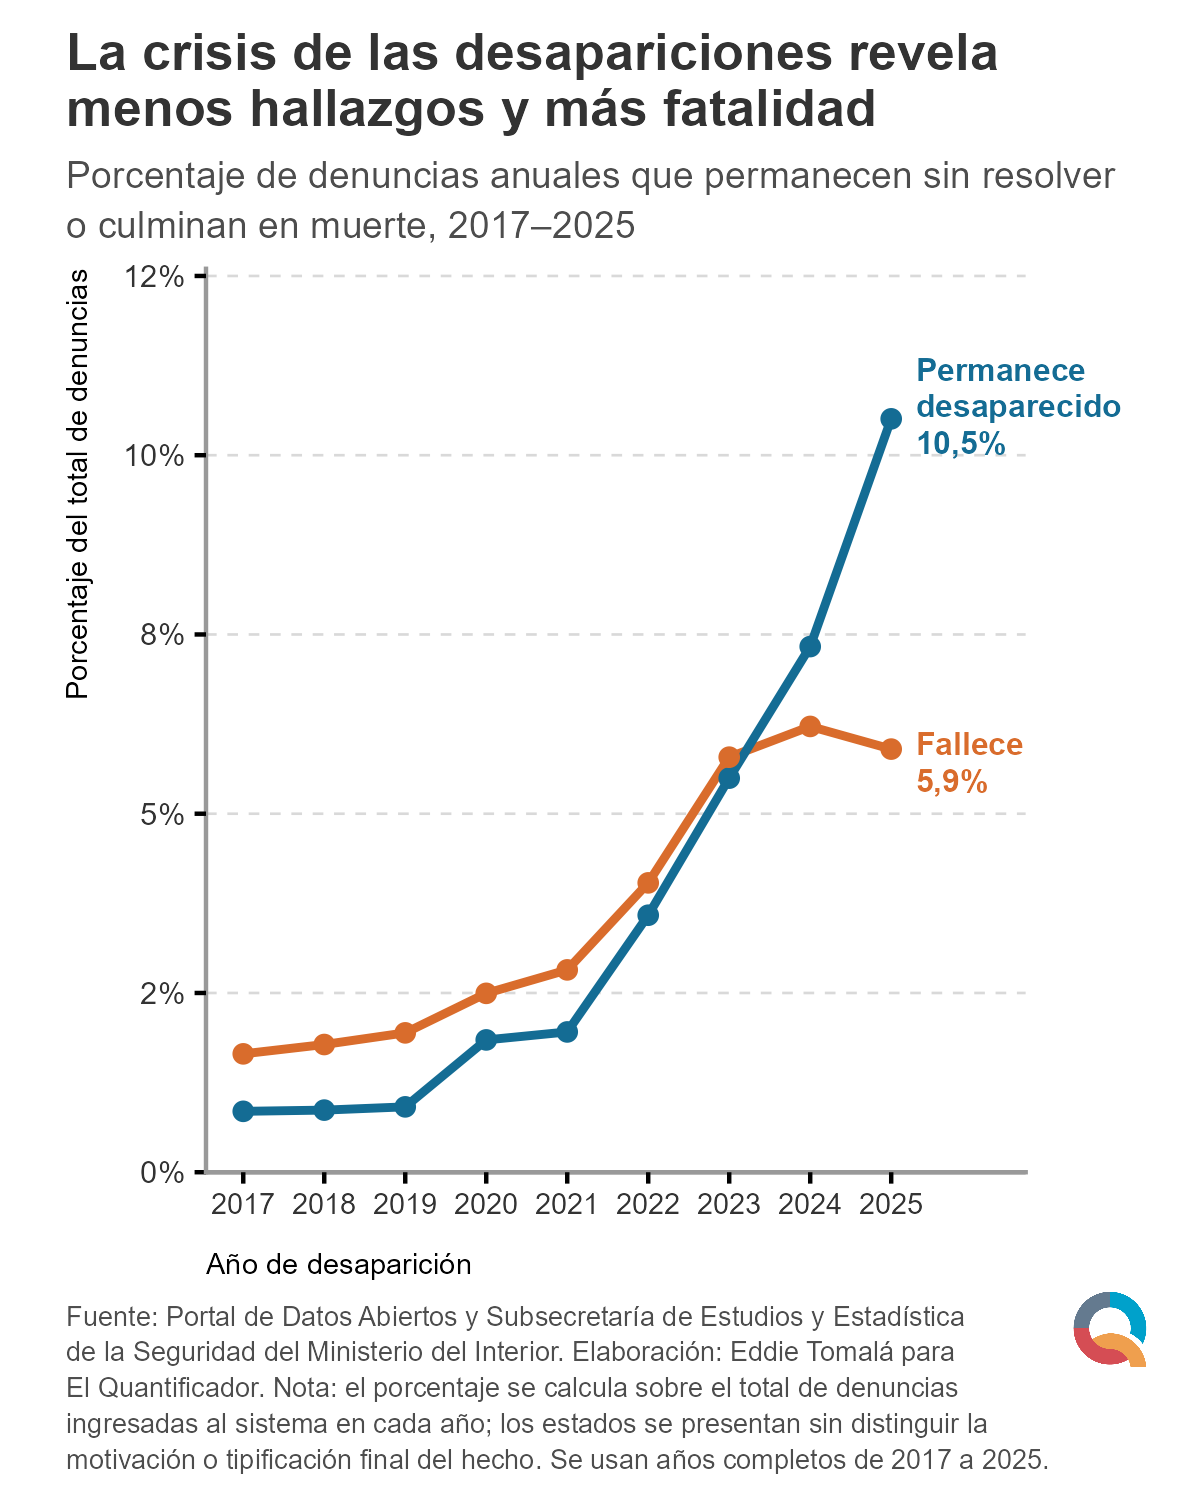
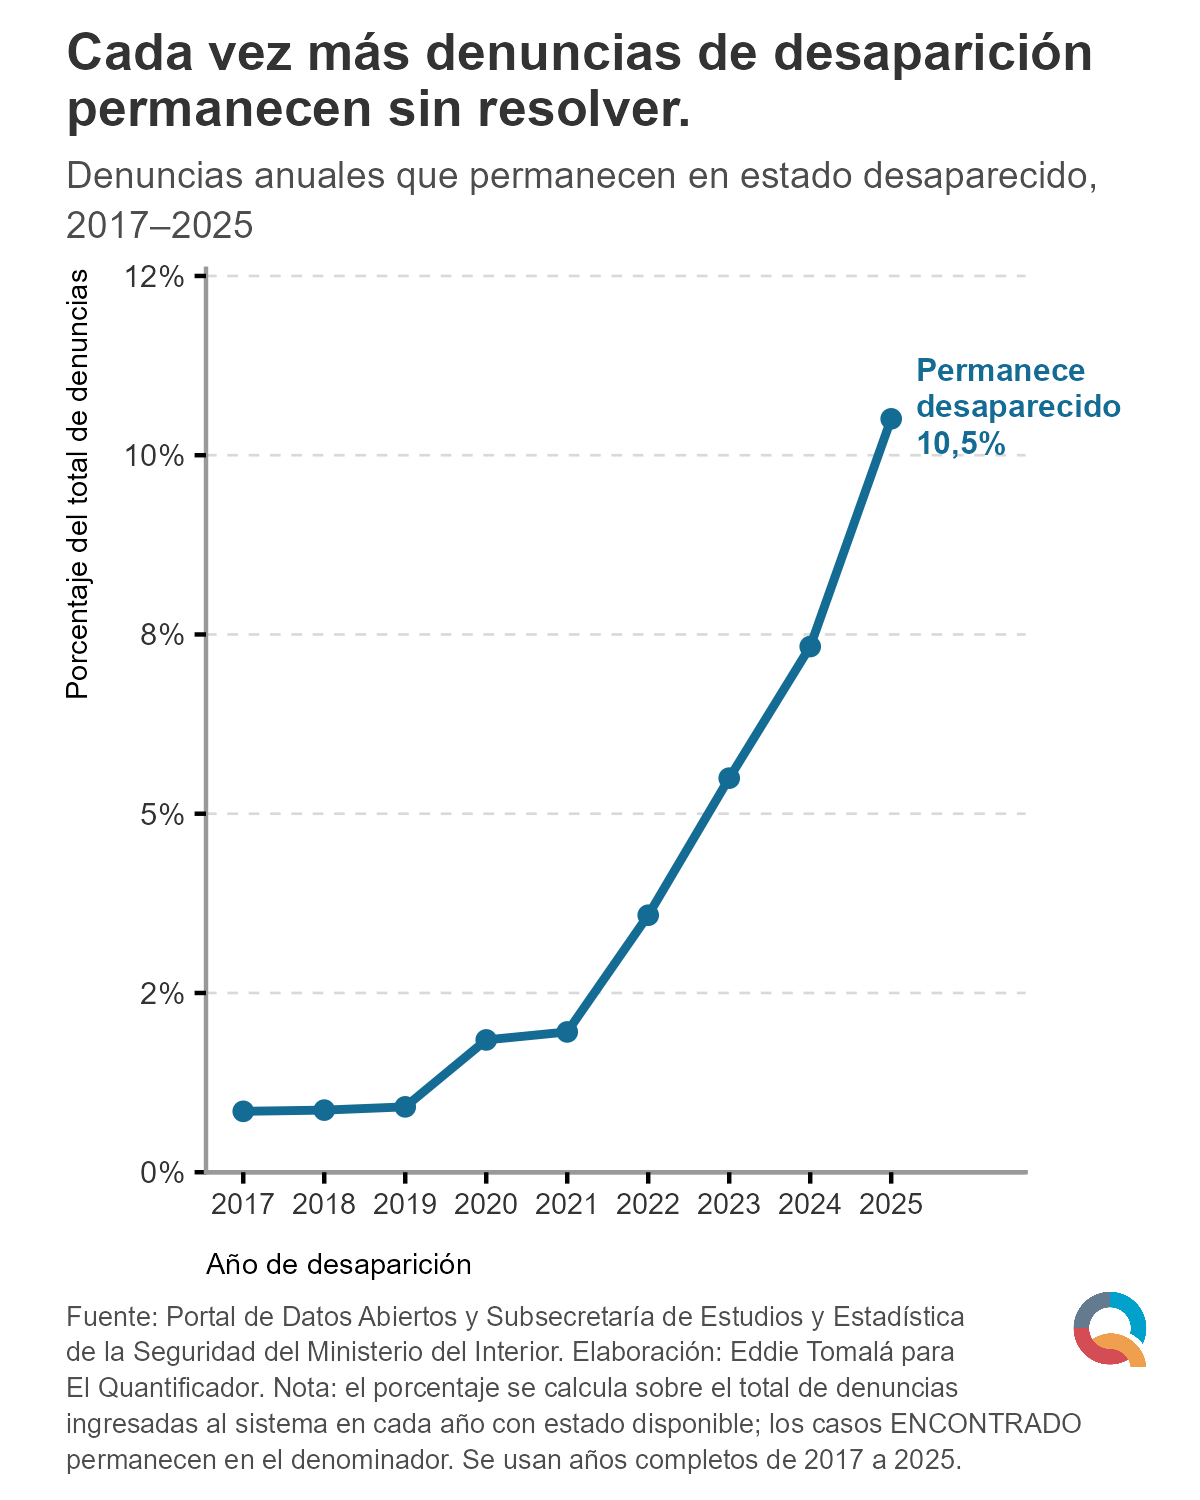
Focus disappearance chart on unresolved reports

diff --git a/data/sources/desaparecidos_fatalidad.md b/data/sources/desaparecidos_fatalidad.md
@@ -1,4 +1,4 @@
-# Desapariciones y fallecimientos
+# Desapariciones sin resolver
 
 ## Fuente
 
@@ -9,20 +9,18 @@
 
 ## Pregunta y cobertura
 
-La pieza muestra qué proporción de las denuncias anuales de desaparición permanece en estado `DESAPARECIDO` o termina en `FALLECIDO`. Se usan años completos de 2017 a 2025.
+La pieza muestra qué proporción de las denuncias anuales de desaparición permanece en estado `DESAPARECIDO`. Se usan años completos de 2017 a 2025.
 
 ## Tratamiento
 
 - Los casos se agrupan por año de `fecha_desaparicion` y `situacion_actual`.
 - El denominador es el total de denuncias con estado disponible en cada año.
-- Solo se muestran los estados `DESAPARECIDO` y `FALLECIDO`; los casos `ENCONTRADO` quedan dentro del denominador.
-- En 2025, los casos que permanecen desaparecidos representan 10,5% y los que terminan en fallecimiento 5,9% del total anual.
+- Solo se muestra el estado `DESAPARECIDO`; los casos `ENCONTRADO` y otros estados quedan dentro del denominador.
+- En 2025, los casos que permanecen desaparecidos representan 10,5% del total anual.
 
 ## Copy de publicación
 
 Cada vez más denuncias de desaparición permanecen sin resolver: la proporción pasó de 0,8% en 2017 a 10,5% en 2025.
-
-Los casos que terminan en fallecimiento también aumentaron, de 1,7% a 5,9% en el mismo periodo. En 2025, ambos desenlaces sumaron 16,4% de las denuncias registradas.
 
 Elaboración: Eddie Bryan Tomalá Figueroa para El Quantificador.
 
